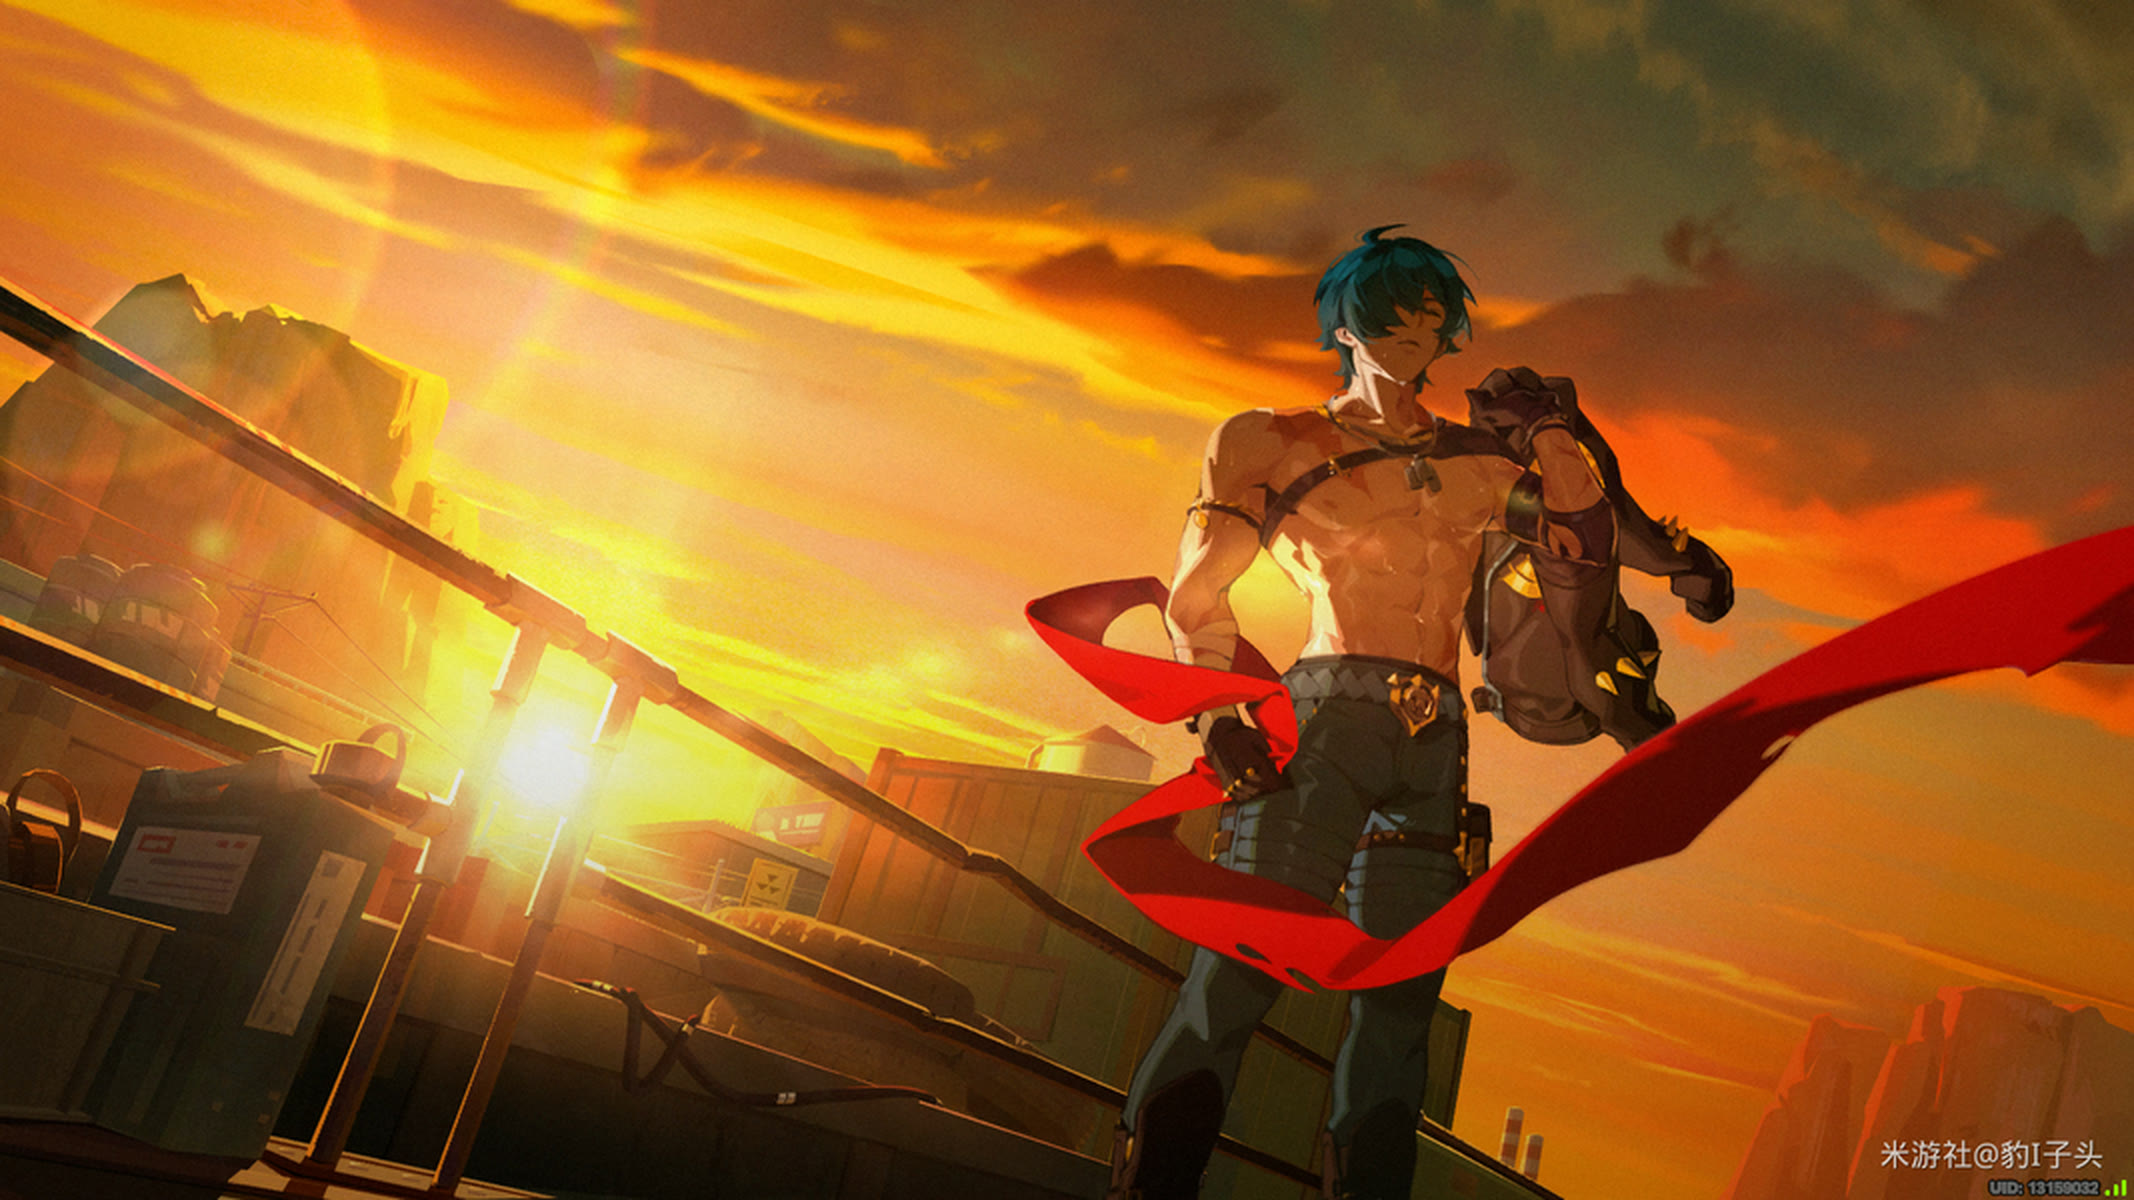
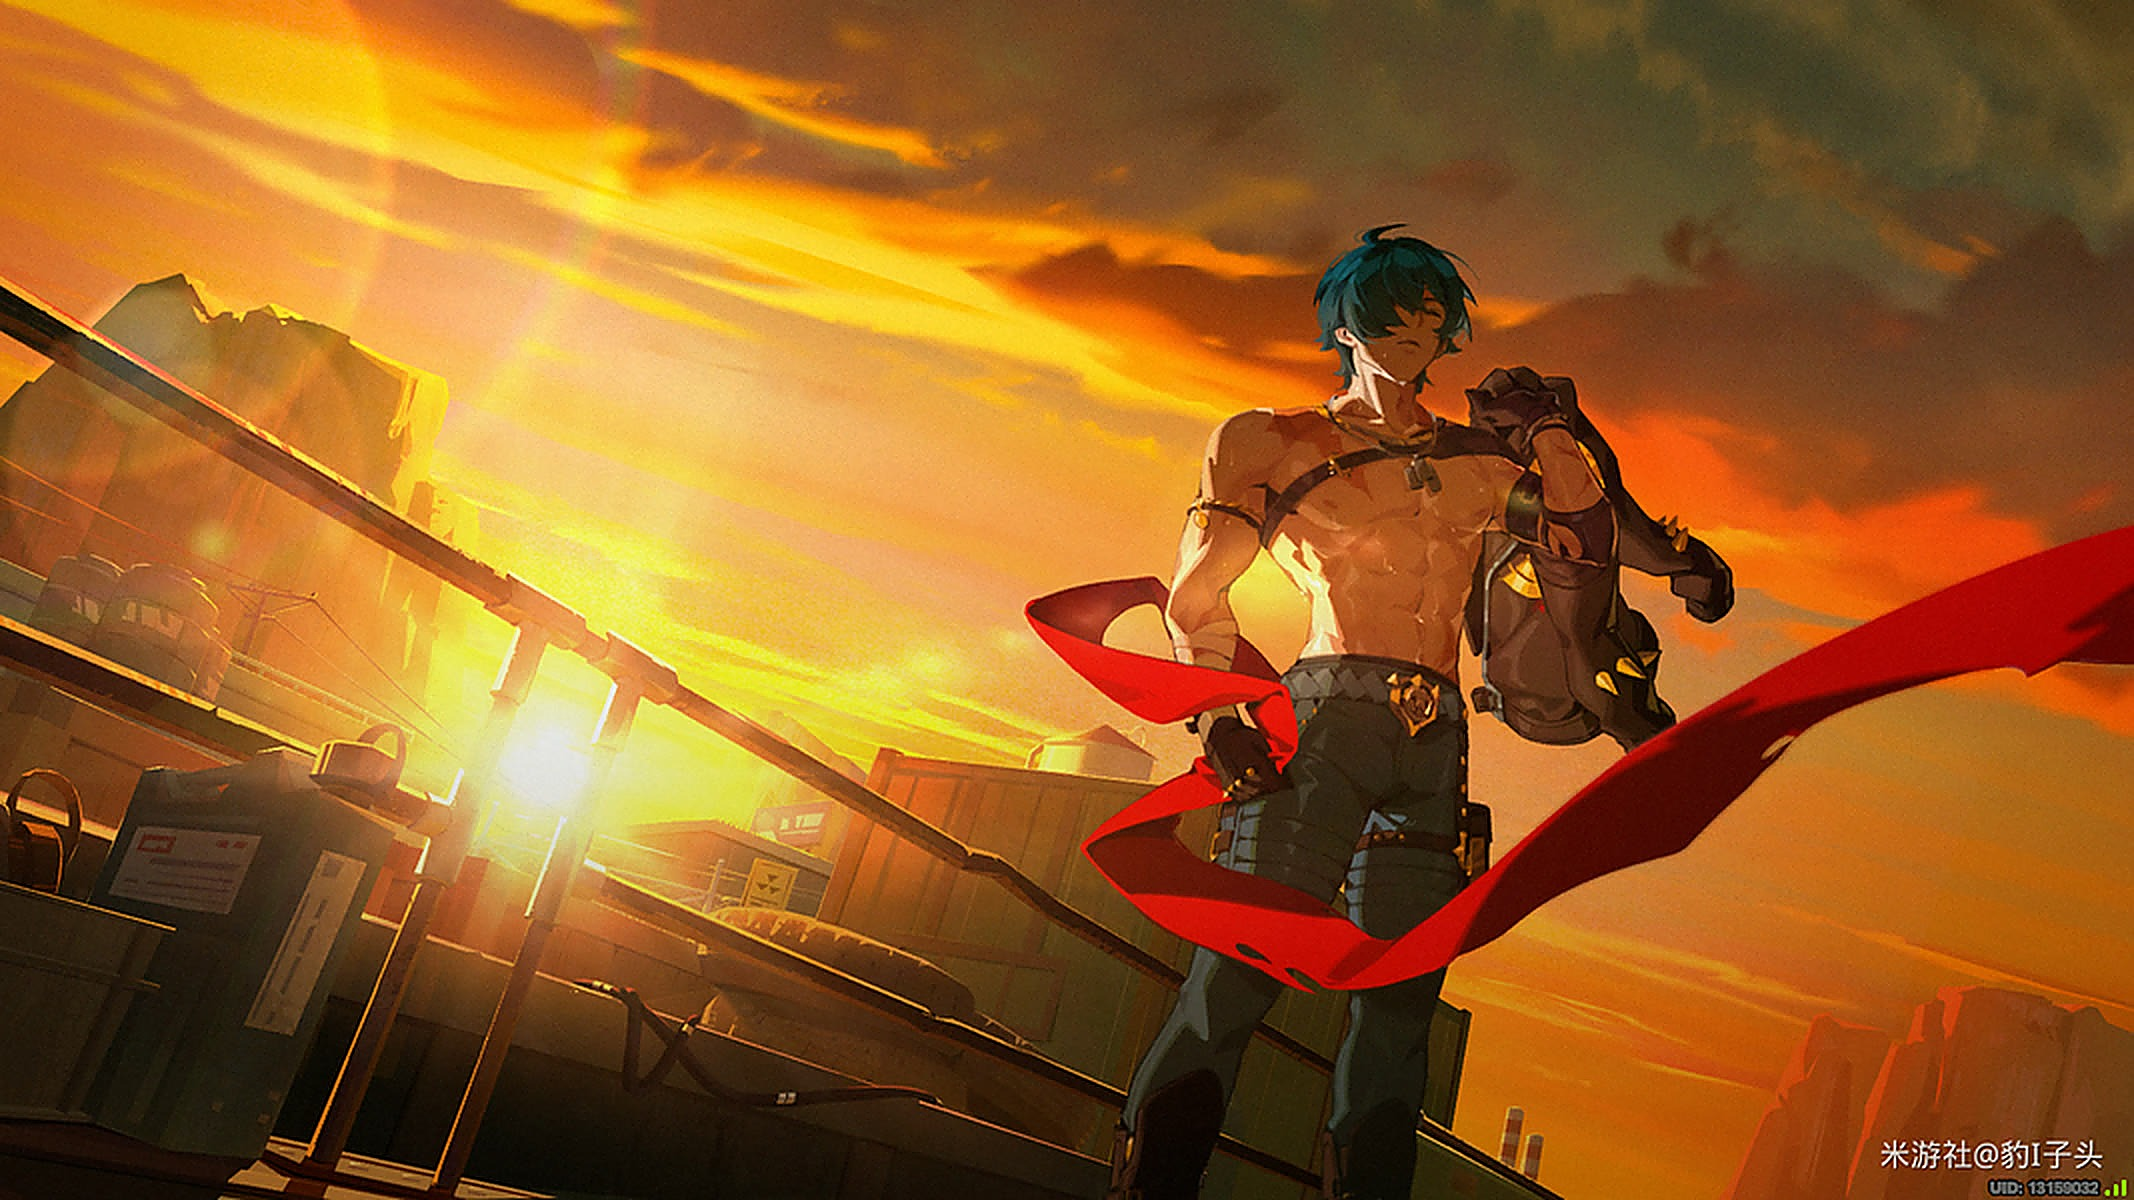
feat(skin): 主题壁纸清晰度标准化 + 会话玻璃磨砂两档统一 14px（v8.7.0）
用户裁定：切换多套主题壁纸时模糊度不一，有的过于模糊，选一个
中庸标准。

- 资产侧：laplacian-var 体检五套壁纸——六分街 906/v13 797/空洞
  781/迎新 576/外环 193（差 4.7 倍）。unsharp 把迎新与外环锐化进
  中位档 600-850（外环 193→628，迎新 576→832），无光晕；
- 玻璃侧：§15.1 会话列磨砂暗档 26px / 亮档同 26px（敲敲还原时
  统一成 26）→ 两档统一 14px 中庸值；
- 实测：应用内壁纸区清晰度 15.0→16.5，人物轮廓可辨；六分街主题
  实拍壁纸可读。tools/standardize-wallpapers.py 入库可复跑。

diff --git a/dist/zzz-zenless-hollow/patches.css b/dist/zzz-zenless-hollow/patches.css
@@ -2564,15 +2564,16 @@ body:not([data-ds-dark-theme]) [data-chat-anchor-key*=":assistant-step"]:not([da
 body[data-ds-dark-theme] .pI_x6G_centerCol,
 body[data-ds-dark-theme] [data-pane="conversation"] {
   background-color: rgba(12, 14, 35, 0.12) !important;
-  backdrop-filter: blur(26px) saturate(1.02);
-  -webkit-backdrop-filter: blur(26px) saturate(1.02);
+  /* 2026-10-25 用户裁定：切主题有的套过于模糊 → 两档统一 14px 中庸磨砂 */
+  backdrop-filter: blur(14px) saturate(1.02);
+  -webkit-backdrop-filter: blur(14px) saturate(1.02);
   border-left-color: rgba(255, 255, 255, 0.06);
 }
 body:not([data-ds-dark-theme]) .pI_x6G_centerCol,
 body:not([data-ds-dark-theme]) [data-pane="conversation"] {
   background-color: rgba(250, 250, 246, 0.22) !important;
-  backdrop-filter: blur(26px) saturate(1.02);
-  -webkit-backdrop-filter: blur(26px) saturate(1.02);
+  backdrop-filter: blur(14px) saturate(1.02);
+  -webkit-backdrop-filter: blur(14px) saturate(1.02);
 }
 /* 15.2 完成态状态行：灰字 + 删除线 + ›（l_V-RG 即「已完成，用时」载体，§5.2c 实测） */
 [data-dsh-surface="conversation"] button[class*="l_V-RG"] {

diff --git a/dist/zzz-zenless-outer-ring/patches.css b/dist/zzz-zenless-outer-ring/patches.css
@@ -2564,15 +2564,16 @@ body:not([data-ds-dark-theme]) [data-chat-anchor-key*=":assistant-step"]:not([da
 body[data-ds-dark-theme] .pI_x6G_centerCol,
 body[data-ds-dark-theme] [data-pane="conversation"] {
   background-color: rgba(12, 14, 35, 0.12) !important;
-  backdrop-filter: blur(26px) saturate(1.02);
-  -webkit-backdrop-filter: blur(26px) saturate(1.02);
+  /* 2026-10-25 用户裁定：切主题有的套过于模糊 → 两档统一 14px 中庸磨砂 */
+  backdrop-filter: blur(14px) saturate(1.02);
+  -webkit-backdrop-filter: blur(14px) saturate(1.02);
   border-left-color: rgba(255, 255, 255, 0.06);
 }
 body:not([data-ds-dark-theme]) .pI_x6G_centerCol,
 body:not([data-ds-dark-theme]) [data-pane="conversation"] {
   background-color: rgba(250, 250, 246, 0.22) !important;
-  backdrop-filter: blur(26px) saturate(1.02);
-  -webkit-backdrop-filter: blur(26px) saturate(1.02);
+  backdrop-filter: blur(14px) saturate(1.02);
+  -webkit-backdrop-filter: blur(14px) saturate(1.02);
 }
 /* 15.2 完成态状态行：灰字 + 删除线 + ›（l_V-RG 即「已完成，用时」载体，§5.2c 实测） */
 [data-dsh-surface="conversation"] button[class*="l_V-RG"] {

diff --git a/dist/zzz-zenless-sixth-street/patches.css b/dist/zzz-zenless-sixth-street/patches.css
@@ -2564,15 +2564,16 @@ body:not([data-ds-dark-theme]) [data-chat-anchor-key*=":assistant-step"]:not([da
 body[data-ds-dark-theme] .pI_x6G_centerCol,
 body[data-ds-dark-theme] [data-pane="conversation"] {
   background-color: rgba(12, 14, 35, 0.12) !important;
-  backdrop-filter: blur(26px) saturate(1.02);
-  -webkit-backdrop-filter: blur(26px) saturate(1.02);
+  /* 2026-10-25 用户裁定：切主题有的套过于模糊 → 两档统一 14px 中庸磨砂 */
+  backdrop-filter: blur(14px) saturate(1.02);
+  -webkit-backdrop-filter: blur(14px) saturate(1.02);
   border-left-color: rgba(255, 255, 255, 0.06);
 }
 body:not([data-ds-dark-theme]) .pI_x6G_centerCol,
 body:not([data-ds-dark-theme]) [data-pane="conversation"] {
   background-color: rgba(250, 250, 246, 0.22) !important;
-  backdrop-filter: blur(26px) saturate(1.02);
-  -webkit-backdrop-filter: blur(26px) saturate(1.02);
+  backdrop-filter: blur(14px) saturate(1.02);
+  -webkit-backdrop-filter: blur(14px) saturate(1.02);
 }
 /* 15.2 完成态状态行：灰字 + 删除线 + ›（l_V-RG 即「已完成，用时」载体，§5.2c 实测） */
 [data-dsh-surface="conversation"] button[class*="l_V-RG"] {

diff --git a/dist/zzz-zenless-v13/patches.css b/dist/zzz-zenless-v13/patches.css
@@ -2564,15 +2564,16 @@ body:not([data-ds-dark-theme]) [data-chat-anchor-key*=":assistant-step"]:not([da
 body[data-ds-dark-theme] .pI_x6G_centerCol,
 body[data-ds-dark-theme] [data-pane="conversation"] {
   background-color: rgba(12, 14, 35, 0.12) !important;
-  backdrop-filter: blur(26px) saturate(1.02);
-  -webkit-backdrop-filter: blur(26px) saturate(1.02);
+  /* 2026-10-25 用户裁定：切主题有的套过于模糊 → 两档统一 14px 中庸磨砂 */
+  backdrop-filter: blur(14px) saturate(1.02);
+  -webkit-backdrop-filter: blur(14px) saturate(1.02);
   border-left-color: rgba(255, 255, 255, 0.06);
 }
 body:not([data-ds-dark-theme]) .pI_x6G_centerCol,
 body:not([data-ds-dark-theme]) [data-pane="conversation"] {
   background-color: rgba(250, 250, 246, 0.22) !important;
-  backdrop-filter: blur(26px) saturate(1.02);
-  -webkit-backdrop-filter: blur(26px) saturate(1.02);
+  backdrop-filter: blur(14px) saturate(1.02);
+  -webkit-backdrop-filter: blur(14px) saturate(1.02);
 }
 /* 15.2 完成态状态行：灰字 + 删除线 + ›（l_V-RG 即「已完成，用时」载体，§5.2c 实测） */
 [data-dsh-surface="conversation"] button[class*="l_V-RG"] {

diff --git a/dist/zzz-zenless-welcome/patches.css b/dist/zzz-zenless-welcome/patches.css
@@ -2564,15 +2564,16 @@ body:not([data-ds-dark-theme]) [data-chat-anchor-key*=":assistant-step"]:not([da
 body[data-ds-dark-theme] .pI_x6G_centerCol,
 body[data-ds-dark-theme] [data-pane="conversation"] {
   background-color: rgba(12, 14, 35, 0.12) !important;
-  backdrop-filter: blur(26px) saturate(1.02);
-  -webkit-backdrop-filter: blur(26px) saturate(1.02);
+  /* 2026-10-25 用户裁定：切主题有的套过于模糊 → 两档统一 14px 中庸磨砂 */
+  backdrop-filter: blur(14px) saturate(1.02);
+  -webkit-backdrop-filter: blur(14px) saturate(1.02);
   border-left-color: rgba(255, 255, 255, 0.06);
 }
 body:not([data-ds-dark-theme]) .pI_x6G_centerCol,
 body:not([data-ds-dark-theme]) [data-pane="conversation"] {
   background-color: rgba(250, 250, 246, 0.22) !important;
-  backdrop-filter: blur(26px) saturate(1.02);
-  -webkit-backdrop-filter: blur(26px) saturate(1.02);
+  backdrop-filter: blur(14px) saturate(1.02);
+  -webkit-backdrop-filter: blur(14px) saturate(1.02);
 }
 /* 15.2 完成态状态行：灰字 + 删除线 + ›（l_V-RG 即「已完成，用时」载体，§5.2c 实测） */
 [data-dsh-surface="conversation"] button[class*="l_V-RG"] {

diff --git a/patches.css b/patches.css
@@ -2564,15 +2564,16 @@ body:not([data-ds-dark-theme]) [data-chat-anchor-key*=":assistant-step"]:not([da
 body[data-ds-dark-theme] .pI_x6G_centerCol,
 body[data-ds-dark-theme] [data-pane="conversation"] {
   background-color: rgba(12, 14, 35, 0.12) !important;
-  backdrop-filter: blur(26px) saturate(1.02);
-  -webkit-backdrop-filter: blur(26px) saturate(1.02);
+  /* 2026-10-25 用户裁定：切主题有的套过于模糊 → 两档统一 14px 中庸磨砂 */
+  backdrop-filter: blur(14px) saturate(1.02);
+  -webkit-backdrop-filter: blur(14px) saturate(1.02);
   border-left-color: rgba(255, 255, 255, 0.06);
 }
 body:not([data-ds-dark-theme]) .pI_x6G_centerCol,
 body:not([data-ds-dark-theme]) [data-pane="conversation"] {
   background-color: rgba(250, 250, 246, 0.22) !important;
-  backdrop-filter: blur(26px) saturate(1.02);
-  -webkit-backdrop-filter: blur(26px) saturate(1.02);
+  backdrop-filter: blur(14px) saturate(1.02);
+  -webkit-backdrop-filter: blur(14px) saturate(1.02);
 }
 /* 15.2 完成态状态行：灰字 + 删除线 + ›（l_V-RG 即「已完成，用时」载体，§5.2c 实测） */
 [data-dsh-surface="conversation"] button[class*="l_V-RG"] {

diff --git a/tools/standardize-wallpapers.py b/tools/standardize-wallpapers.py
@@ -1,0 +1,33 @@
+#!/usr/bin/env python3
+"""主题壁纸清晰度标准化：偏软的锐化到群体中位档（laplacian-var 600-850）。"""
+from PIL import Image, ImageFilter, ImageEnhance
+import numpy as np, glob, os
+
+def lapvar(im):
+    g = im.convert('L').resize((1067, 600))
+    a = np.asarray(g, dtype=float)
+    lap = a[1:-1,1:-1]*4 - a[:-2,1:-1] - a[2:,1:-1] - a[1:-1,:-2] - a[1:-1,2:]
+    return float(lap.var())
+
+LO, HI = 600.0, 850.0
+for f in sorted(glob.glob('assets/themes/*.jpg')):
+    im = Image.open(f)
+    v0 = lapvar(im)
+    if v0 >= LO:
+        print(os.path.basename(f), f'{v0:.0f} -> 达标，不动')
+        continue
+    best = None
+    for radius, percent in [(1.0, 90), (1.2, 120), (1.2, 150), (1.5, 150), (1.5, 180), (2.0, 150), (2.0, 180), (1.2, 200), (1.5, 220)]:
+        cand = im.filter(ImageFilter.UnsharpMask(radius=radius, percent=percent, threshold=2))
+        v = lapvar(cand)
+        best = (cand, v, radius, percent)
+        if v >= LO:
+            break
+    cand, v, radius, percent = best
+    if v > HI:  # 过了就往回混一点
+        alpha = max(0.4, min(0.9, (HI - v0) / (v - v0)))
+        cand = Image.blend(im, cand, alpha)
+        v = lapvar(cand)
+    cand.save(f, quality=92)
+    print(os.path.basename(f), f'{v0:.0f} -> {v:.0f}  (unsharp r={radius} p={percent})')
+
